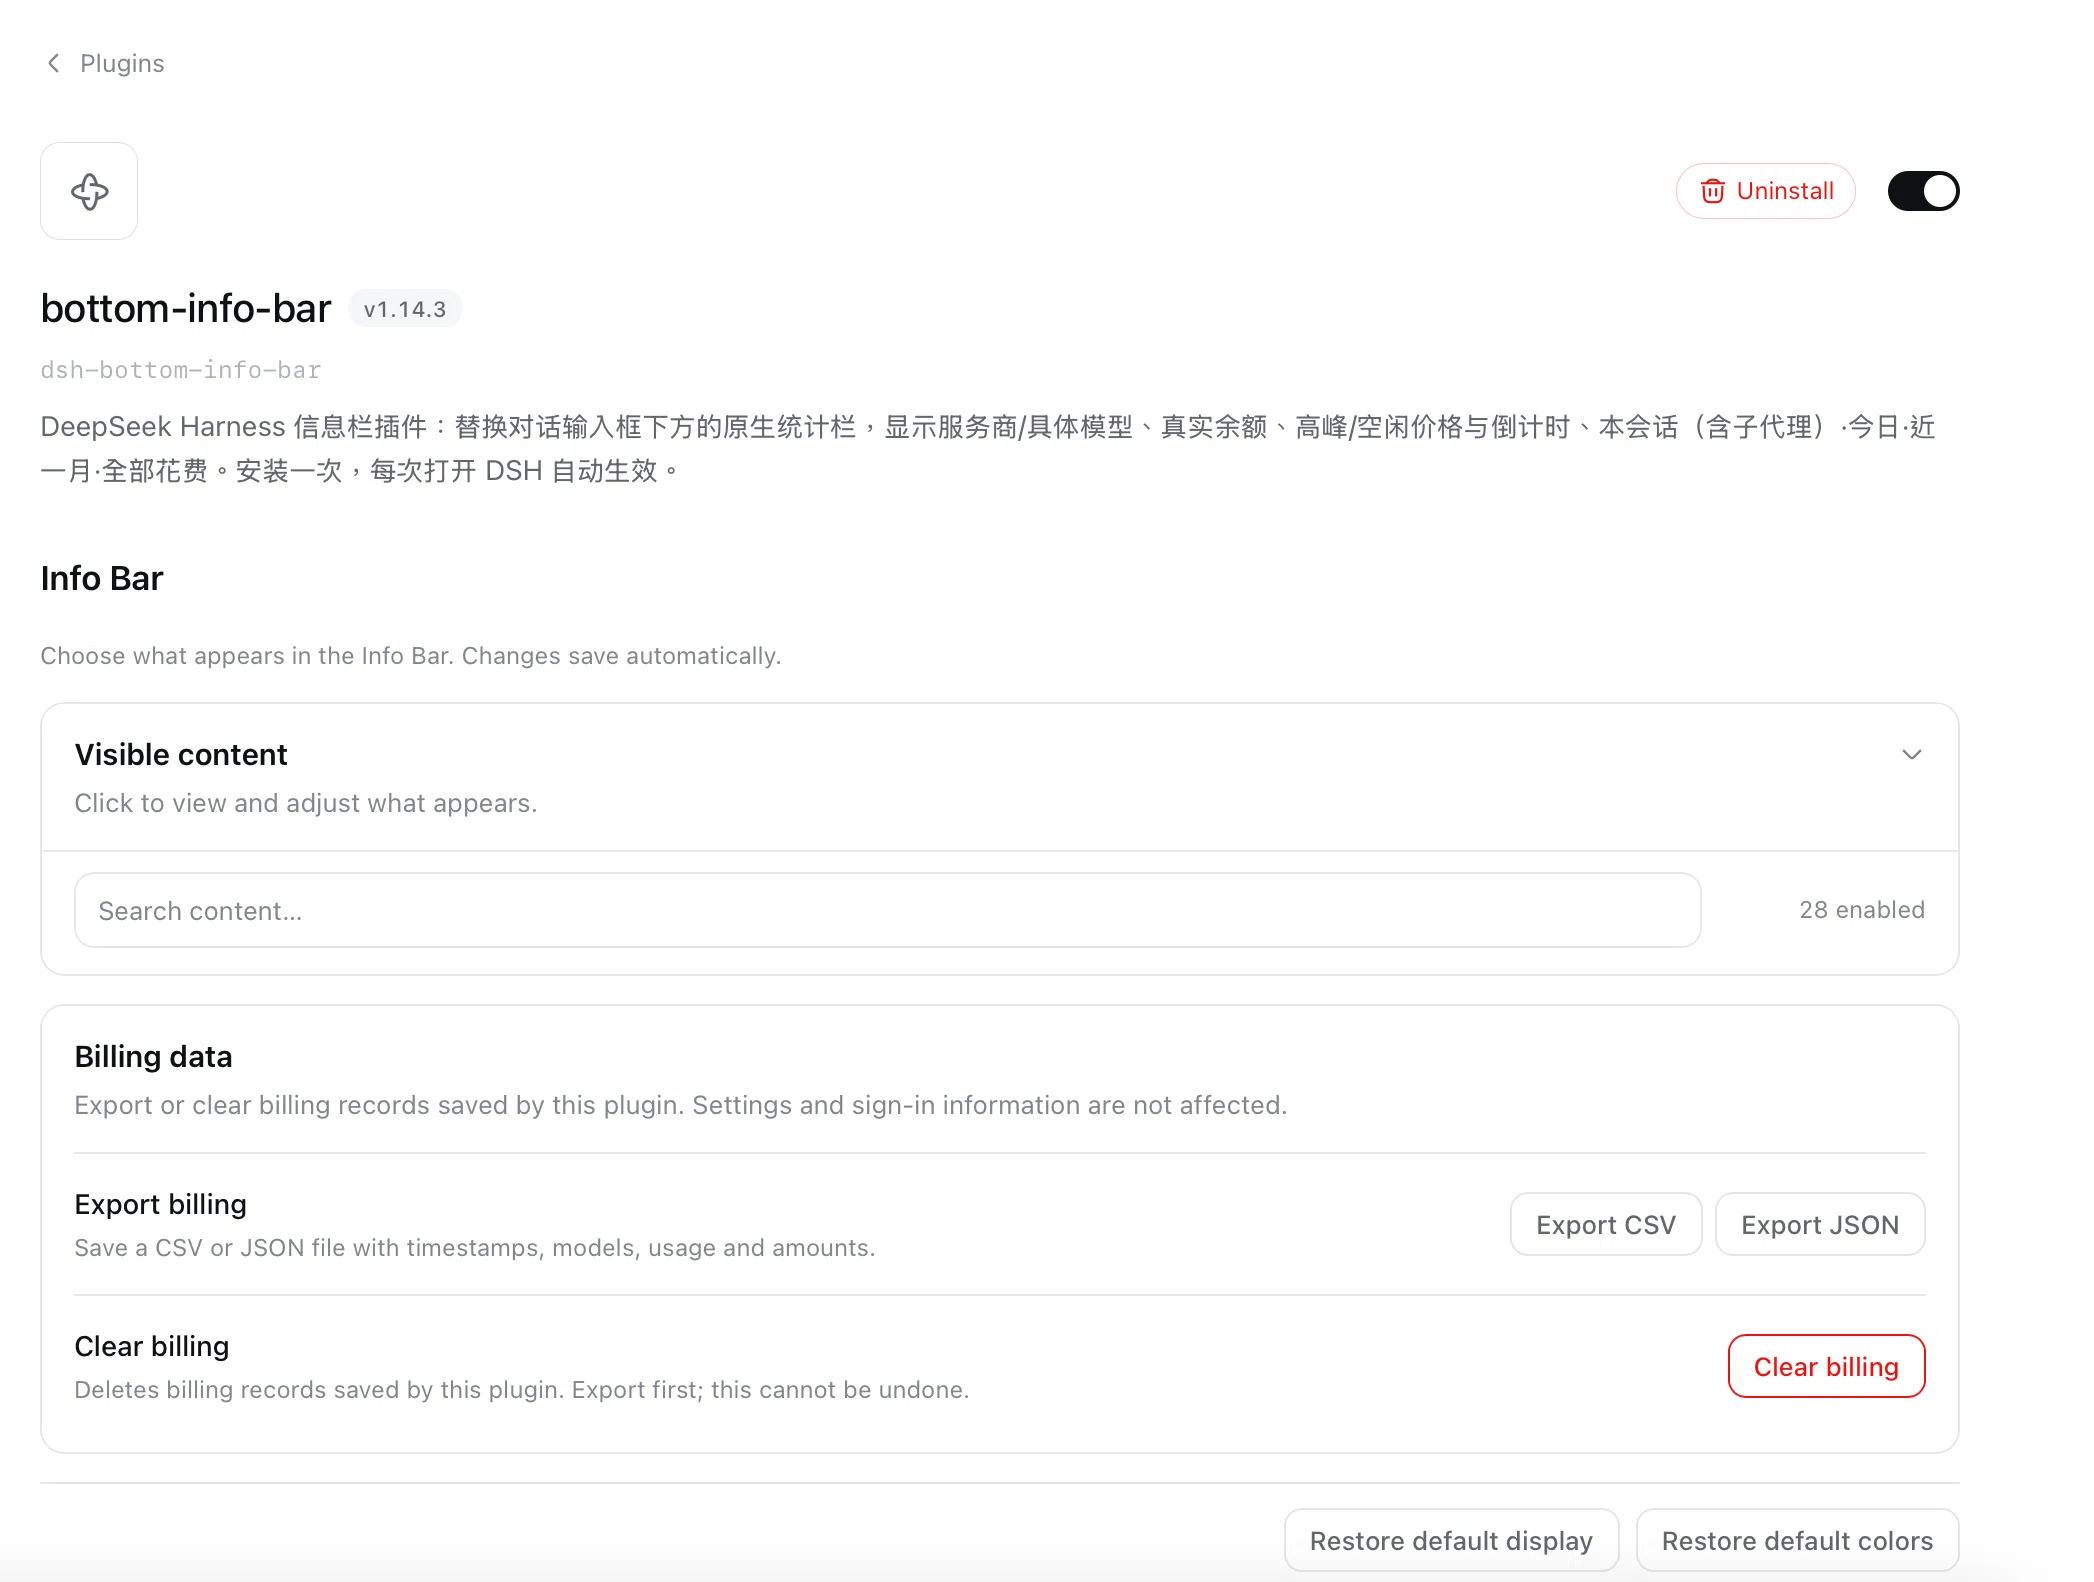
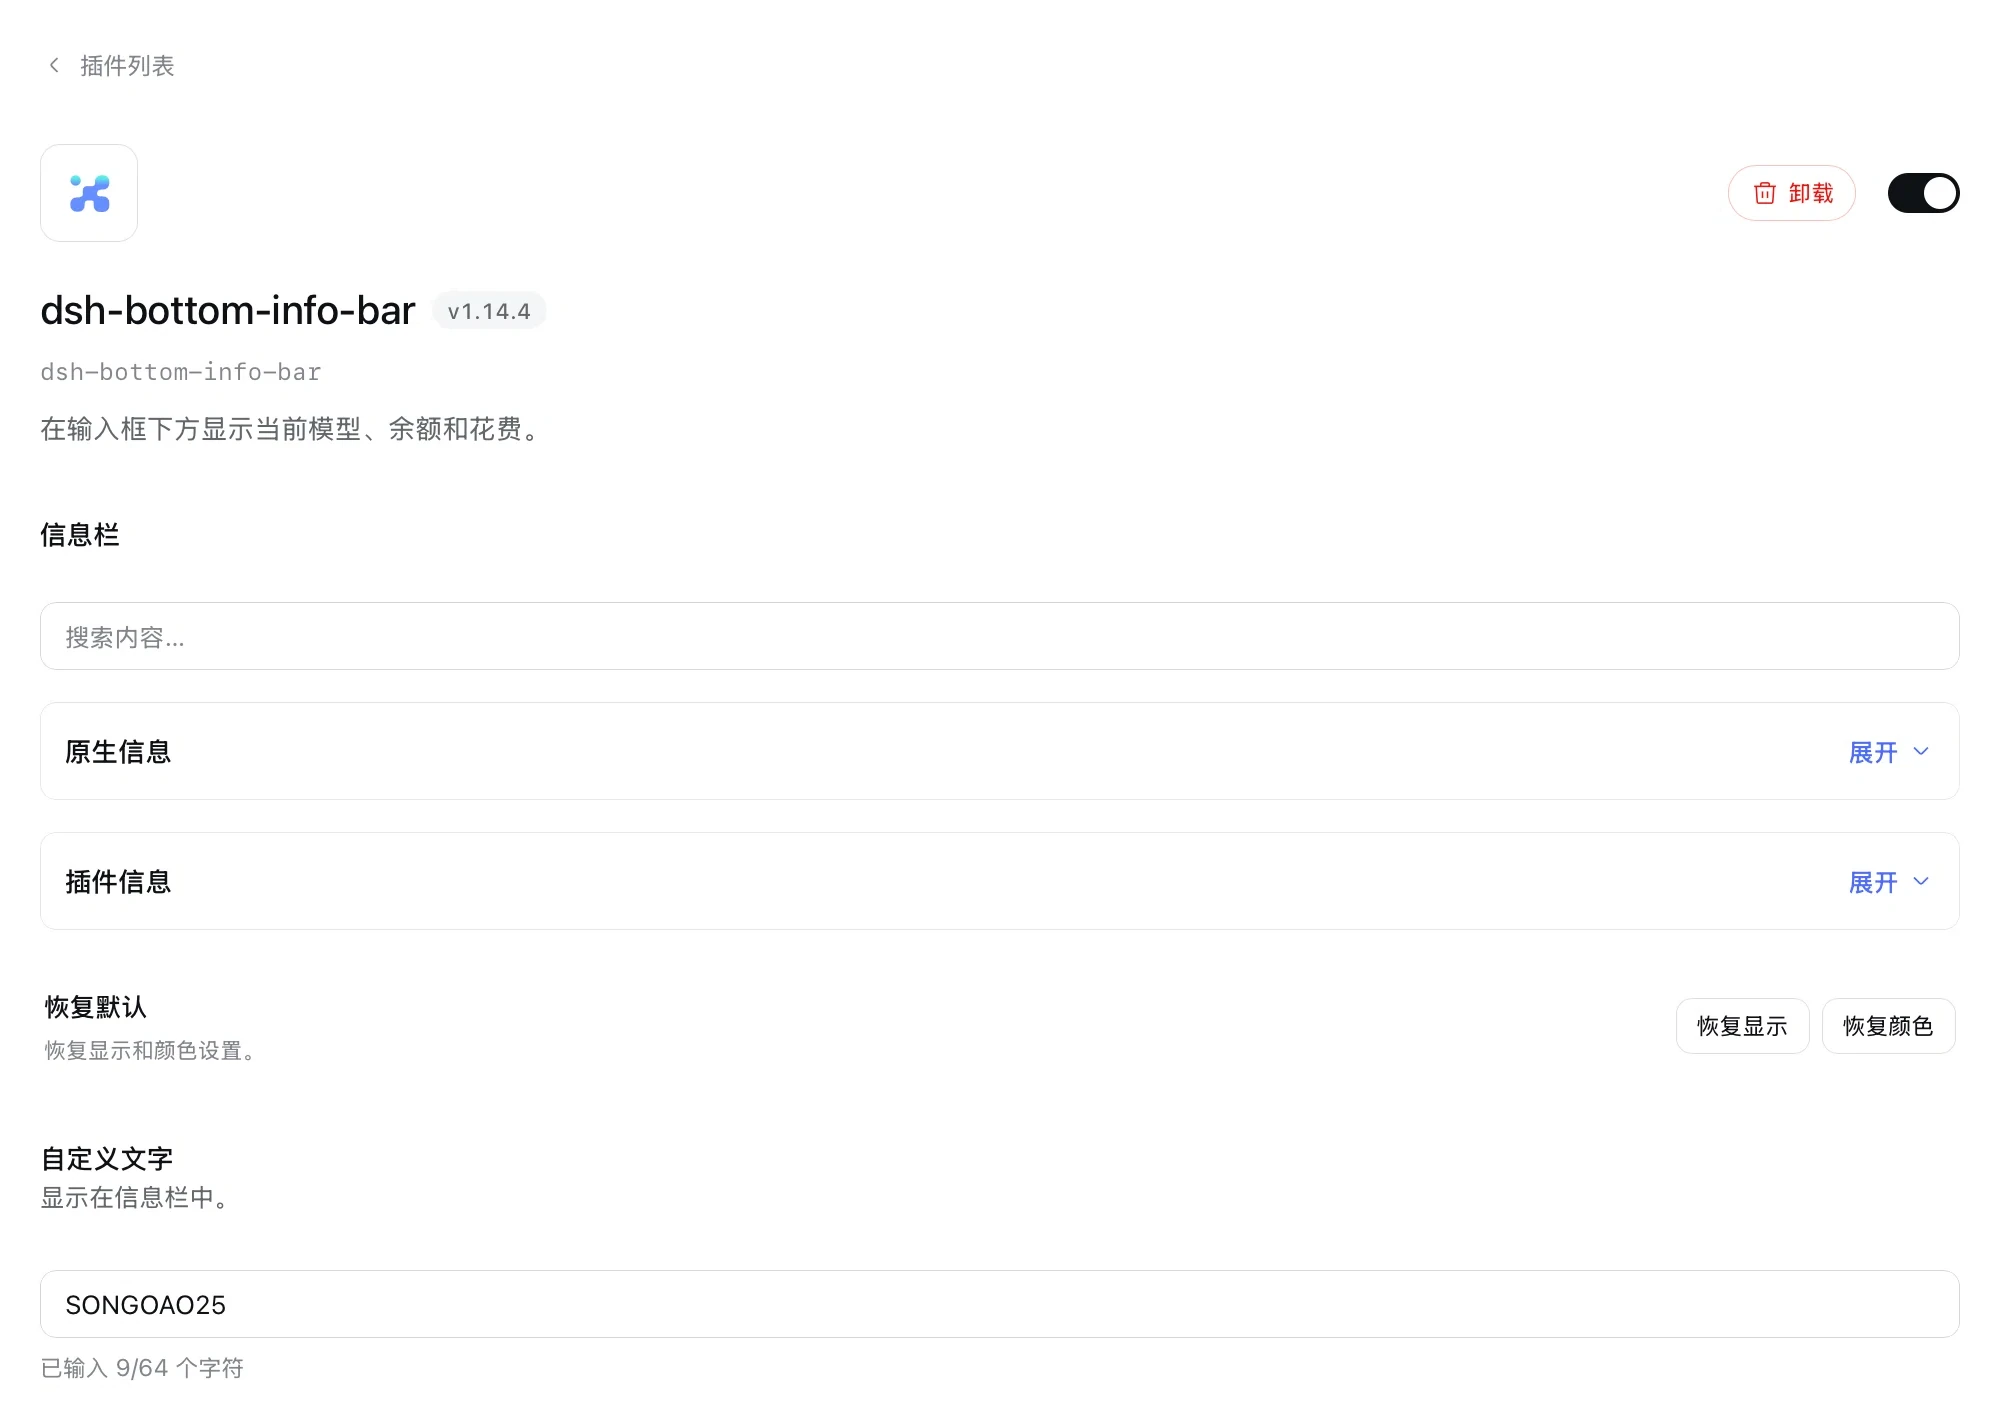
docs: refresh the settings-page screenshots to the new page layout
The Configuration section still illustrated the pre-redesign page — a single
"Visible content" card next to "Billing data" — which no longer matches what
users see. Both READMEs now show the current page: the search box, the two
collapsible field groups, Restore defaults, Custom text and Billing data.

- assets/plugin-page.webp — page overview (fresh capture; cropped to the panel)
- assets/field-config.webp — Native information expanded, one switch and one
  colour per field
- assets/field-config-plugin.webp — new: Plugin information expanded
- captions and alt text updated in README.md and README.zh-CN.md
- MEMORY.md records the crop procedure and the hidden status-text trap

diff --git a/MEMORY.md b/MEMORY.md
@@ -18,6 +18,14 @@
 
 ## 2026-09-23
 
+### README 设置页展示图换成 v1.14.4 新版（纯 docs，不触发发版）
+
+- 起因：用户给出 3 张 v1.14.4 设置页截图（中文界面）要求替换展示图。旧的 `assets/plugin-page.webp` / `field-config.webp` 仍是 v1.14.3 的「Visible content + Billing data」旧结构，与折叠分组改版已不符。
+- 做法：先用 `magick` 灰度阈值逐行/逐列扫描，按**卡片边框线的真实像素坐标**裁切（不靠肉眼估），三张图统一「卡片左右各留 40px」→ 1999px 宽、`-quality 90` webp：`plugin-page.webp`（页头 + 信息栏 + 搜索 + 两个折叠分组 + 恢复默认 + 自定义文字）、`field-config.webp`（原生信息展开）、新增 `field-config-plugin.webp`（插件信息展开）。文案同步改成新版结构。
+- 可复用坐标（源图宽 2302/2292/2250，卡片左右边界 194/2113 与 190/2109，三张同缩放）：s1 `-crop 1999x1420+154+0`、s2 `-crop 1999x890+154+200`、s3 `-crop 1999x1480+150+0`。
+- 文案坑：`已启用 N 项 / N found` 是 `.bib-set-count`（`clip: rect(0,0,0,0)`）——**只给读屏的隐藏状态文本，画面里看不到**，写截图说明时不要提「显示已开启数量」（旧 README 就是这么说错的）。
+- 已知取舍：新图是中文界面，而英文 `README.md` 其余截图是英文界面 → 英文 README 出现中英混排；若用户后续给英文界面截图，按同一坐标替换即可。
+
 ### CodeQL「不完整 URL 子串判断」两条 High 告警修复（PR #120，纯 tests 改动不触发发版）
 
 - 告警来源：Code scanning 在 main 报 `js/incomplete-url-substring-sanitization`（High）两条 —— `tests/smoke-static-host.mjs:250`、`:268`。断言「请求是否发往 Command Code 官方 API」写成了 `entry.url.includes('https://api.commandcode.ai/')`，而该写法只要求域名出现在 URL **任意位置**：`https://evil.example/?u=https://api.commandcode.ai/` 一样命中，判断实际不成立。

diff --git a/README.md b/README.md
@@ -76,15 +76,19 @@ Detailed instructions and troubleshooting: [docs/INSTALL.md](docs/INSTALL.md).
 
 ## Configuration
 
-Everything is on the **plugin page** — **Plugins → bottom-info-bar** — not in DSH's global settings. Fields, colours and the billing ledger all live there, and changes save as you make them.
+Everything is on the **plugin page** — **Plugins → bottom-info-bar** — not in DSH's global settings. Field switches, colours, custom text and the billing ledger all live there, and changes save as you make them.
 
-![Plugin page: Info Bar configuration with Visible content and Billing data](assets/plugin-page.webp)
+![Plugin page: Info Bar settings — search, the two field groups, restore defaults, custom text and billing data](assets/plugin-page.webp)
 
-<sub>**Visible content** lists every field — the native ones first, then the bar's own — and shows how many are enabled. **Billing data** exports CSV/JSON or clears the ledger.</sub>
+<sub>**Info Bar** holds the search box, the two field groups, **Restore defaults** and **Custom text**; typing in the search box expands both groups. **Billing data** exports CSV/JSON or clears the ledger.</sub>
 
-![Field configuration: one switch and one colour per field](assets/field-config.webp)
+![Native information expanded: one switch and one colour per field](assets/field-config.webp)
 
-<sub>Each field has its own switch and colour; the defaults match DSH.</sub>
+<sub>**Native information** — the six fields DSH's own stats row already showed. Each row keeps its own switch and colour; the defaults match DSH.</sub>
+
+![Plugin information expanded: the fields this plugin adds](assets/field-config-plugin.webp)
+
+<sub>**Plugin information** — everything the bar adds: provider and model, subscriptions, spend, balance, peak/off-peak prices and quota. Switch a field off and the bar drops it.</sub>
 
 ## What it does not do
 

diff --git a/README.zh-CN.md b/README.zh-CN.md
@@ -76,15 +76,19 @@ cd dsh-bottom-info-bar
 
 ## 插件配置
 
-配置都在**插件页**（插件 → bottom-info-bar）里，不在 DSH 的全局设置里：字段、配色、账单数据都在这里，改完自动保存。
+配置都在**插件页**（插件 → bottom-info-bar）里，不在 DSH 的全局设置里：字段开关、配色、自定义文字、账单数据都在这里，改完自动保存。
 
-![插件页：信息栏配置（可见内容 + 账单数据）](assets/plugin-page.webp)
+![插件页：信息栏设置——搜索、两个字段分组、恢复默认、自定义文字与账单数据](assets/plugin-page.webp)
 
-<sub>**可见内容**列出全部字段（原生字段在前、信息栏自己的字段在后），并显示已开启数量；**账单数据**可导出 CSV/JSON 或清除记录。</sub>
+<sub>**信息栏**里有搜索框、两个字段分组、**恢复默认**与**自定义文字**；在搜索框输入会自动展开两个分组。**账单数据**可导出 CSV/JSON 或清除记录。</sub>
 
-![字段配置：每个字段一个开关与一个颜色](assets/field-config.webp)
+![原生信息展开：每个字段一个开关与一个颜色](assets/field-config.webp)
 
-<sub>每个字段都有独立开关与颜色，默认配色跟随 DSH。</sub>
+<sub>**原生信息**——DSH 原生统计栏本来就有的六个字段。每行都有自己的开关与颜色，默认配色跟随 DSH。</sub>
+
+![插件信息展开：信息栏自己新增的字段](assets/field-config-plugin.webp)
+
+<sub>**插件信息**——信息栏新增的全部内容：服务商与模型、订阅、花费、余额、高峰/空闲价格与额度。关掉哪个字段，信息栏就不再显示它。</sub>
 
 ## 它不做什么
 
